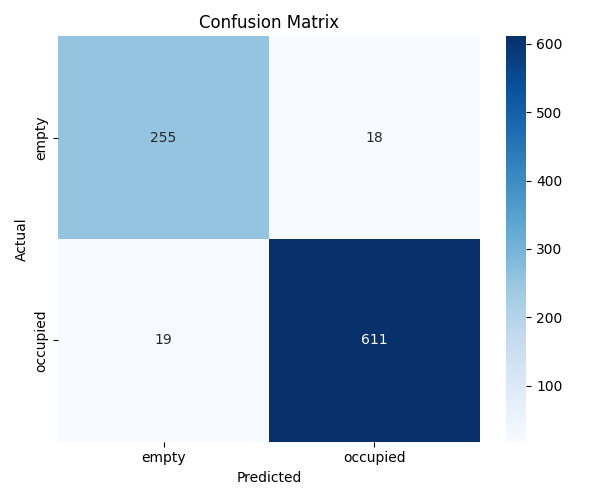
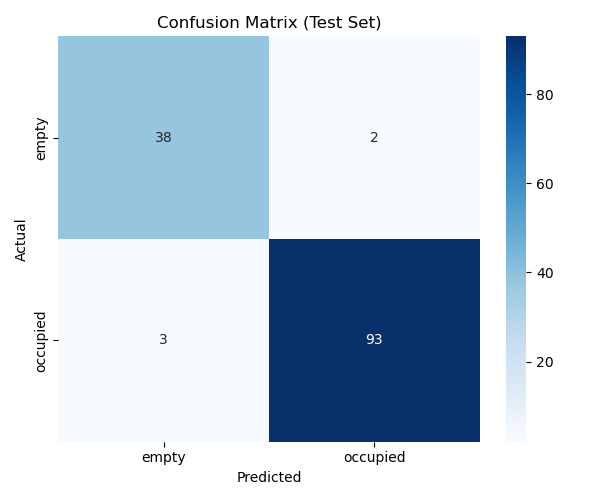
Added front end, properly tested model on testing data.

diff --git a/evaluate.py b/evaluate.py
@@ -12,6 +12,9 @@ DATA_DIR = "data/crops"
 MODEL_PATH = "best_model.pth"
 IMAGE_SIZE = 64
 BATCH_SIZE = 32
+SEED = 42
+TRAIN_RATIO = 0.70
+VAL_RATIO = 0.15
 
 IMAGENET_MEAN = [0.485, 0.456, 0.406]
 IMAGENET_STD = [0.229, 0.224, 0.225]
@@ -24,15 +27,26 @@ def load_model(device):
     return model
 
 
-def load_dataset():
+def load_test_set():
     transform = transforms.Compose([
         transforms.Resize((IMAGE_SIZE, IMAGE_SIZE)),
         transforms.ToTensor(),
         transforms.Normalize(IMAGENET_MEAN, IMAGENET_STD),
     ])
-    dataset = datasets.ImageFolder(DATA_DIR, transform=transform)
-    loader = DataLoader(dataset, batch_size=BATCH_SIZE, shuffle=False)
-    return loader, dataset.classes
+    full_dataset = datasets.ImageFolder(DATA_DIR, transform=transform)
+
+    n = len(full_dataset)
+    train_size = int(TRAIN_RATIO * n)
+    val_size = int(VAL_RATIO * n)
+
+    generator = torch.Generator().manual_seed(SEED)
+    indices = torch.randperm(n, generator=generator).tolist()
+
+    test_indices = indices[train_size + val_size:]
+    test_set = torch.utils.data.Subset(full_dataset, test_indices)
+
+    loader = DataLoader(test_set, batch_size=BATCH_SIZE, shuffle=False)
+    return loader, full_dataset.classes
 
 
 def run_inference(model, loader, device):
@@ -57,7 +71,7 @@ def save_confusion_matrix(labels, preds, class_names):
                 xticklabels=class_names, yticklabels=class_names)
     plt.xlabel("Predicted")
     plt.ylabel("Actual")
-    plt.title("Confusion Matrix")
+    plt.title("Confusion Matrix (Test Set)")
     plt.tight_layout()
     plt.savefig("confusion_matrix.png")
     plt.close()
@@ -71,12 +85,12 @@ def main():
     print(f"Using device: {device}")
 
     model = load_model(device)
-    loader, class_names = load_dataset()
-    print(f"Classes: {class_names} | Total samples: {len(loader.dataset)}")
+    loader, class_names = load_test_set()
+    print(f"Classes: {class_names} | Test samples: {len(loader.dataset)}")
 
     labels, preds = run_inference(model, loader, device)
 
-    print("\n=== Classification Report ===")
+    print("\n=== Classification Report (Test Set) ===")
     print(classification_report(labels, preds, target_names=class_names))
 
     save_confusion_matrix(labels, preds, class_names)

diff --git a/train.py b/train.py
@@ -11,6 +11,9 @@ EPOCHS = 10
 LEARNING_RATE = 0.001
 IMAGE_SIZE = 64
 SAVE_PATH = "best_model.pth"
+SEED = 42
+TRAIN_RATIO = 0.70
+VAL_RATIO = 0.15
 
 IMAGENET_MEAN = [0.485, 0.456, 0.406]
 IMAGENET_STD = [0.229, 0.224, 0.225]
@@ -39,15 +42,24 @@ def load_data():
     full_dataset = datasets.ImageFolder(DATA_DIR, transform=train_transform)
     val_dataset  = datasets.ImageFolder(DATA_DIR, transform=val_transform)
 
-    train_size = int(0.8 * len(full_dataset))
-    val_size   = len(full_dataset) - train_size
-    indices    = list(range(len(full_dataset)))
-    train_set  = torch.utils.data.Subset(full_dataset, indices[:train_size])
-    val_set    = torch.utils.data.Subset(val_dataset,  indices[train_size:])
+    n = len(full_dataset)
+    train_size = int(TRAIN_RATIO * n)
+    val_size   = int(VAL_RATIO * n)
+    test_size  = n - train_size - val_size
+
+    generator = torch.Generator().manual_seed(SEED)
+    indices = torch.randperm(n, generator=generator).tolist()
+
+    train_indices = indices[:train_size]
+    val_indices   = indices[train_size:train_size + val_size]
+    test_indices  = indices[train_size + val_size:]
+
+    train_set = torch.utils.data.Subset(full_dataset, train_indices)
+    val_set   = torch.utils.data.Subset(val_dataset,  val_indices)
 
     class_names = full_dataset.classes
     print(f"Classes: {class_names}")
-    print(f"Total: {len(full_dataset)} | Train: {train_size} | Val: {val_size}")
+    print(f"Total: {n} | Train: {train_size} | Val: {val_size} | Test: {test_size}")
 
     class_counts = [0] * len(class_names)
     for _, label in full_dataset.samples:

diff --git a/README.md b/README.md
@@ -1,0 +1,61 @@
+# Parking Lot Detector
+
+A computer vision tool that classifies parking spots as empty or occupied using a fine-tuned ResNet-18 model.
+
+## How It Works
+
+1. Parking lot images are annotated with polygon regions marking individual spots
+2. The preprocessing step crops each spot into its own image and labels it (empty/occupied)
+3. A ResNet-18 model (pretrained on ImageNet) is fine-tuned on these cropped images
+4. At inference time, the model classifies each annotated spot and overlays the results on the original image
+
+## Project Structure
+
+- `preprocess.py` — Parses `annotations.xml` and crops individual parking spots into `data/crops/`
+- `model.py` — ResNet-18 with a frozen backbone and trainable classification head
+- `train.py` — Trains the model using a 70/15/15 train/val/test split
+- `evaluate.py` — Evaluates the trained model on the held-out test set
+- `demo.py` — Runs inference on an annotated image and saves the result
+- `app.py` — Flask web app for uploading images and viewing results
+
+## Setup
+
+```
+python -m venv .venv
+source .venv/bin/activate
+pip install torch torchvision flask opencv-python pillow matplotlib seaborn scikit-learn
+```
+
+## Usage
+
+**Preprocess the data:**
+```
+python preprocess.py
+```
+
+**Train the model:**
+```
+python train.py
+```
+
+**Evaluate on the test set:**
+```
+python evaluate.py
+```
+
+**Run the demo:**
+```
+python demo.py
+```
+
+**Start the web app:**
+```
+python app.py
+```
+Then open http://127.0.0.1:5000 in a browser.
+
+## Notes
+
+- The model requires annotation files (polygon coordinates) to identify parking spot locations in an image
+- Images from `annotations.xml` can be used in the web app without uploading a separate XML file
+- New/unseen parking lot images require their own annotations XML
